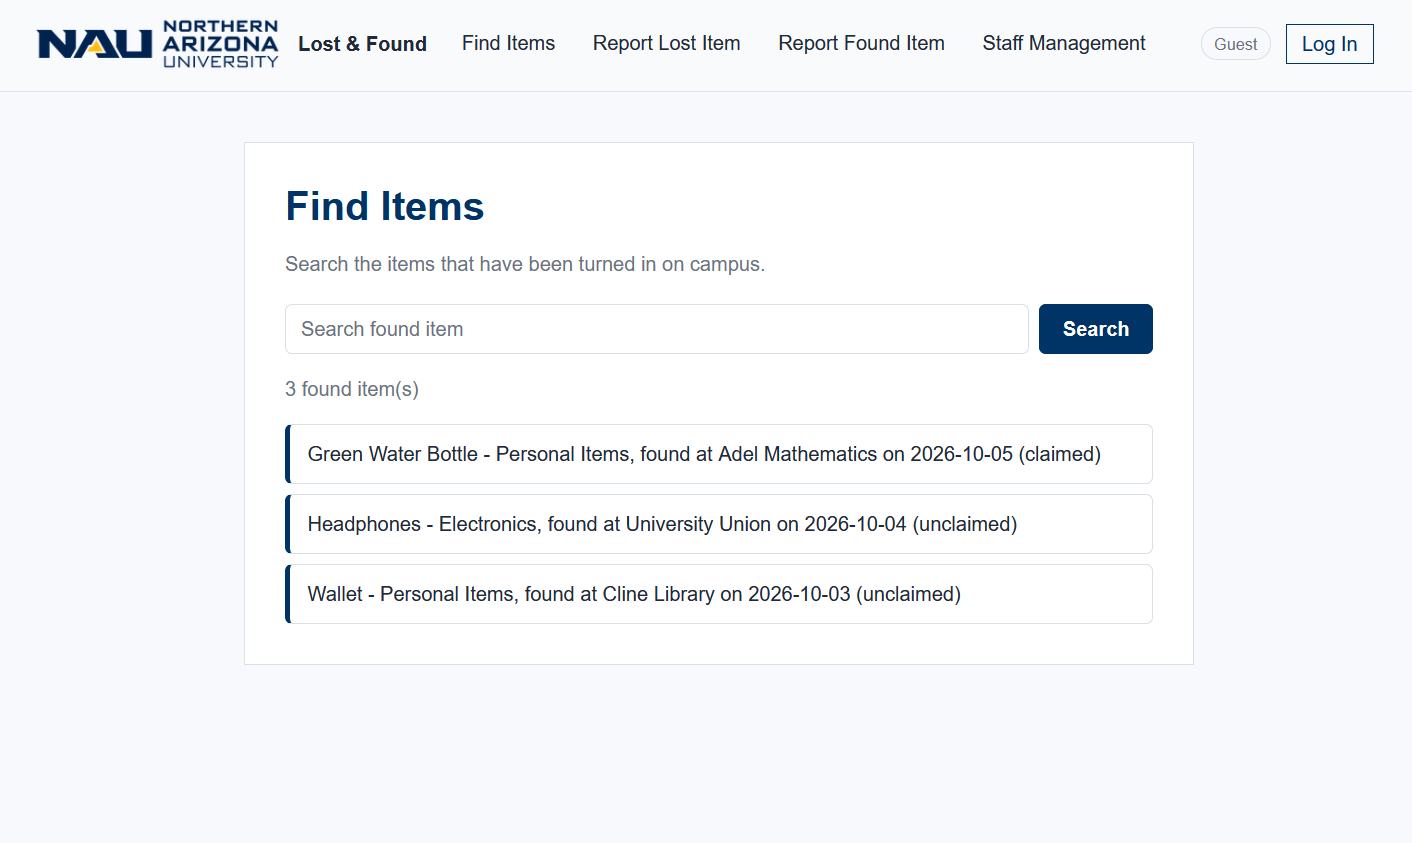
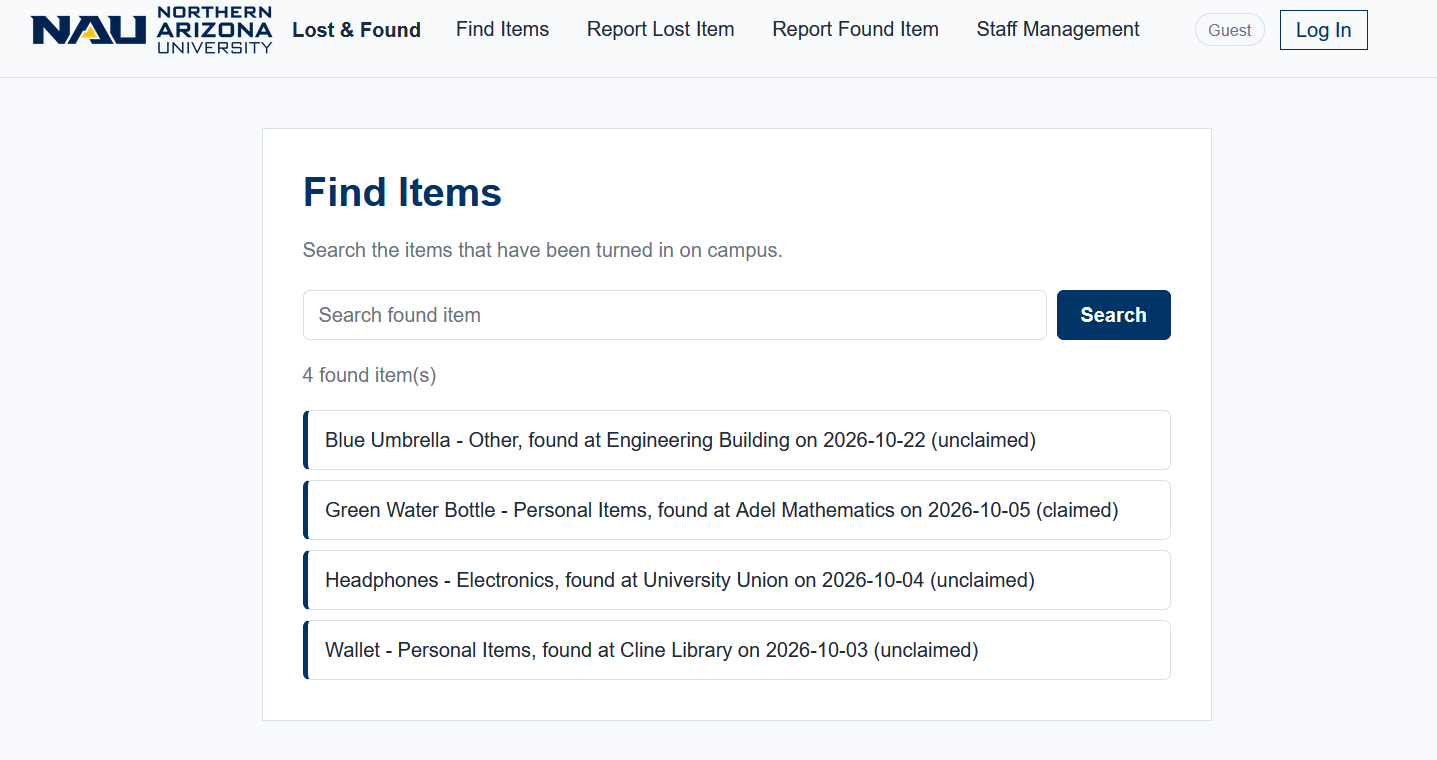
Fixed some minor link errors in D4

diff --git a/deliverables/D4.md b/deliverables/D4.md
@@ -54,8 +54,8 @@ The repository for this project is located at [bs2863/CS386-Project-LostAndFound
 4. **Implemented by:** Lareine Han (form and item API), Brennan Smith (category/location tables, endpoints and validation)
 5. **Approved by:** Rose Hankins (#96, #98, #100)
 6. **Automated tests:**
-    - [`backend/items.test.js`](https://github.com/bs2863/CS386-Project-LostAndFound/blob/main/backend/items.test.js): "POST valid item", "POST invalid item"
-    - [`backend/api.test.js`](https://github.com/bs2863/CS386-Project-LostAndFound/blob/main/backend/api.test.js): "GET categories returns the seeded categories", "GET locations returns the seeded locations", "POST valid item is saved and shows up in GET items", "POST item with an unknown category is rejected and not saved"
+    - [`backend/tests/items.test.js`](https://github.com/bs2863/CS386-Project-LostAndFound/blob/main/backend/tests/items.test.js): "POST valid item", "POST invalid item"
+    - [`backend/tests/api.test.js`](https://github.com/bs2863/CS386-Project-LostAndFound/blob/main/backend/tests/api.test.js): "GET categories returns the seeded categories", "GET locations returns the seeded locations", "POST valid item is saved and shows up in GET items", "POST item with an unknown category is rejected and not saved"
 7. **Visual evidence:** the form's category and location options come from the database; the submitted item then appears on the Find Items page (2.1.2).
 
     ![Report Found Item form filled in](assets/D4/report-found-form.png)
@@ -63,15 +63,15 @@ The repository for this project is located at [bs2863/CS386-Project-LostAndFound
 #### 2.1.2 Search found items (shared with Lareine Han)
 
 1. **Requirement:** As a campus community member, I want to search for lost items in one centralized place so that I can avoid going to the wrong location. *(User story by Lareine Han, D2.)*
-2. **Issue:** <!-- TODO: issue link --> https://github.com/bs2863/CS386-Project-LostAndFound/issues/XX
+2. **Issue:** https://github.com/bs2863/CS386-Project-LostAndFound/issues/53
 3. **Pull requests:**
     - [#98](https://github.com/bs2863/CS386-Project-LostAndFound/pull/98): `GET /api/v1/items` reads items from SQLite (Lareine Han)
-    - [#100](https://github.com/bs2863/CS386-Project-LostAndFound/pull/XX): `?type=` and `?q=` search filters, category/location names in results, Find Items home page, and `npm run seed` demo data (Brennan Smith)
+    - [#100](https://github.com/bs2863/CS386-Project-LostAndFound/pull/100): `?type=` and `?q=` search filters, category/location names in results, Find Items home page, and `npm run seed` demo data (Brennan Smith)
 4. **Implemented by:** Lareine Han (item list API), Brennan Smith (search filters and Find Items page)
-5. **Approved by:** Rose Hankins (#98) (#100);
+5. **Approved by:** Rose Hankins (#98, #100)
 6. **Automated tests:**
-    - [`backend/items.test.js`](https://github.com/bs2863/CS386-Project-LostAndFound/blob/main/backend/items.test.js): "GET items"
-    - [`backend/api.test.js`](https://github.com/bs2863/CS386-Project-LostAndFound/blob/main/backend/api.test.js): "GET items includes category and location names", "GET items with type=found returns only found items", "GET items search matches name or description, ignoring case", "GET items with an unknown type is rejected"
+    - [`backend/tests/items.test.js`](https://github.com/bs2863/CS386-Project-LostAndFound/blob/main/backend/tests/items.test.js): "GET items"
+    - [`backend/tests/api.test.js`](https://github.com/bs2863/CS386-Project-LostAndFound/blob/main/backend/tests/api.test.js): "GET items includes category and location names", "GET items with type=found returns only found items", "GET items search matches name or description, ignoring case", "GET items with an unknown type is rejected"
 7. **Visual evidence:** The Find Items page lists only found items (lost reports and reporter details stay private), and searching narrows the list.
 
     ![Find Items page](assets/D4/find-items.png)
@@ -84,7 +84,7 @@ The repository for this project is located at [bs2863/CS386-Project-LostAndFound
 These PRs support the features above but are not separate requirements:
 
 - [#11](https://github.com/bs2863/CS386-Project-LostAndFound/pull/11): frontend for the full-stack demo used to connect the first version of the website to the backend (closes #2, #4, #5, #6).
-- [#65](https://github.com/bs2863/CS386-Project-LostAndFound/pull/65) (and a bit of #100): login page, currently the site's entry/index page, plus the shared navbar and the reorganized `public/` folder. The login page is interface only, authentication is not currently planned for implemenetation, but the page could be adjusted to account for it should we decide to include it.
+- [#65](https://github.com/bs2863/CS386-Project-LostAndFound/pull/65) (and a bit of [#100](https://github.com/bs2863/CS386-Project-LostAndFound/pull/100)): login page, currently the site's entry/index page, plus the shared navbar and the reorganized `public/` folder. The login page is interface only, authentication is only currently in consideration for future implementation, so the page could be adjusted to account for it should we decide to include it.
 
 #### Deviation from the MVP plan
 
@@ -113,13 +113,13 @@ For us, this was the simple and obvious choice. We didn't need to include any ex
 
 | File | Approach | What it covers |
 |---|---|---|
-| [`items.test.js`](https://github.com/bs2863/CS386-Project-LostAndFound/blob/main/backend/items.test.js) | The database is replaced by a mock | Item routes on their own: listing items, saving a valid item, rejecting an item with missing fields |
-| [`api.test.js`](https://github.com/bs2863/CS386-Project-LostAndFound/blob/main/backend/api.test.js) | A real SQLite database held in memory | The SQL itself: category/location endpoints, the type and search filters, category/location names in results, saving items, rejecting unknown categories |
+| [`items.test.js`](https://github.com/bs2863/CS386-Project-LostAndFound/blob/main/backend/tests/items.test.js) | The database is replaced by a mock | Item routes on their own: listing items, saving a valid item, rejecting an item with missing fields |
+| [`api.test.js`](https://github.com/bs2863/CS386-Project-LostAndFound/blob/main/backend/tests/api.test.js) | A real SQLite database held in memory | The SQL itself: category/location endpoints, the type and search filters, category/location names in results, saving items, rejecting unknown categories |
 
 The two approaches complement each other. Mocks keep the route tests fast and focused, while the in-memory database checks that the queries actually return the right rows. `api.test.js` resets its data before every test, so tests do not depend on each other, and the real `lost-and-found.db` file is never touched.
 
 ### Test example
-- **Test:** "POST item with an unknown category is rejected and not saved" in [`backend/api.test.js`](https://github.com/bs2863/CS386-Project-LostAndFound/blob/main/backend/api.test.js)
+- **Test:** "POST item with an unknown category is rejected and not saved" in [`backend/tests/api.test.js`](https://github.com/bs2863/CS386-Project-LostAndFound/blob/main/backend/tests/api.test.js)
 - **Source code tested:** The `POST /api/v1/items` handler in [`backend/items.js`](https://github.com/bs2863/CS386-Project-LostAndFound/blob/main/backend/items.js)
 - **What it validates:** When an item is submitted with a category id that doesn't exist (`C999`), the API must answer `400 Bad Request` and must not save anything. The test sends the item, checks the status code, and then searches for the item to confirm it is not in the database. This protects the data that future item matching depends on: every saved item has a real category and location.
 
